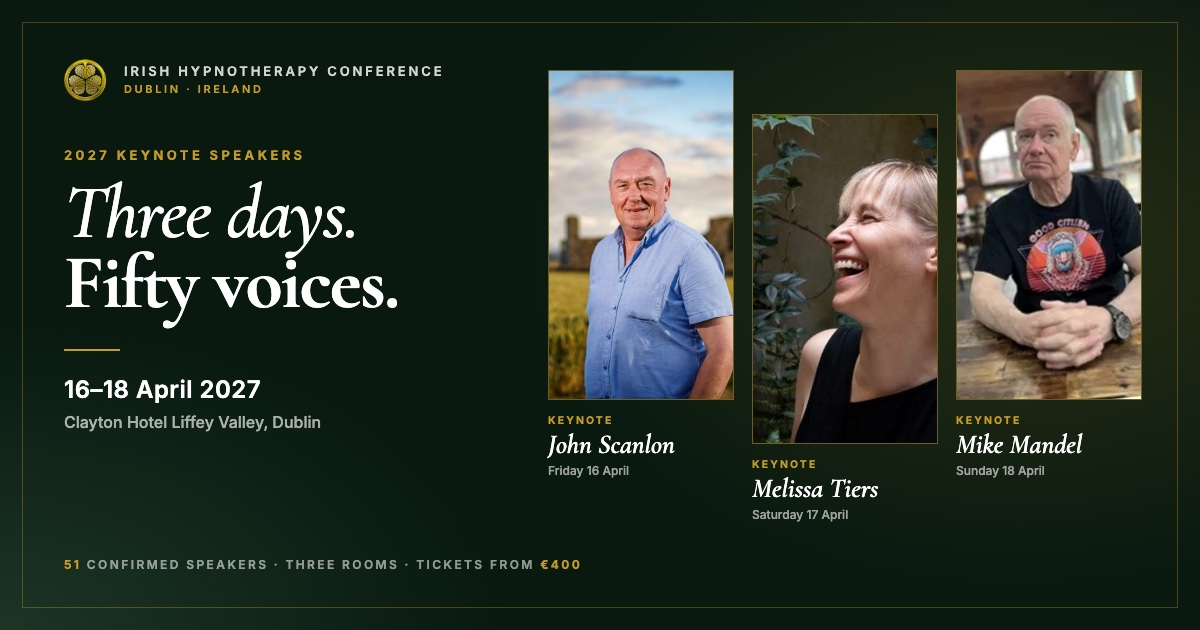
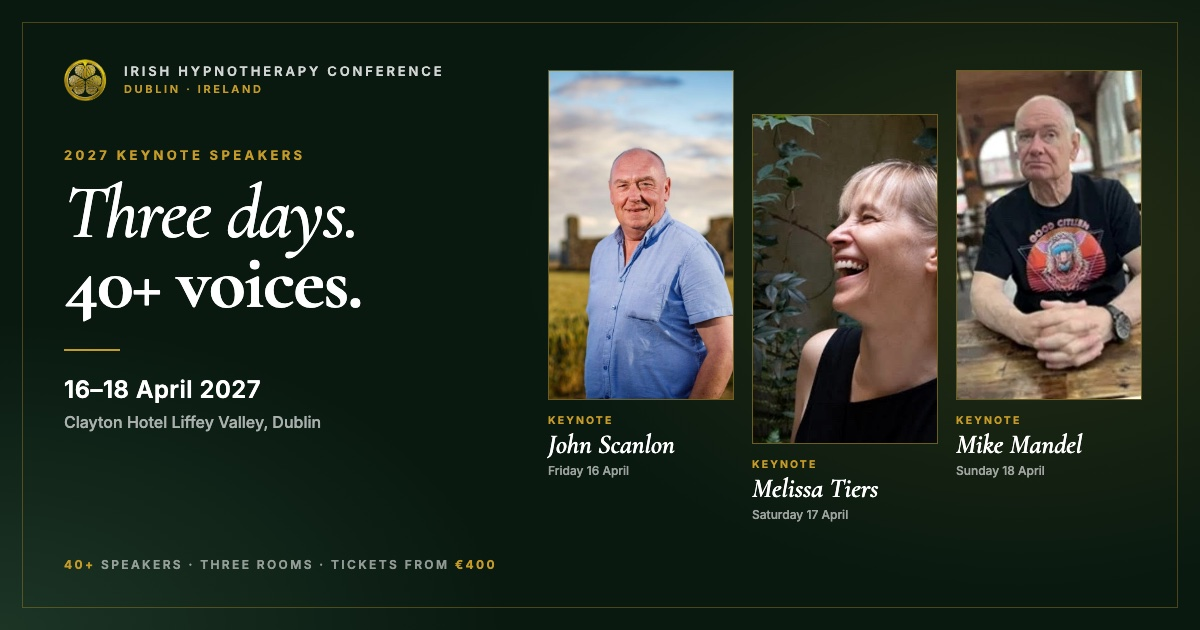
fix: confirmed facts, 40+ speakers, venue address, current copyright year
- Speaker count reads 40+ everywhere, including the share image and calendar file
- Venue address corrected to Fonthill Road, Liffey Valley, Dublin, D22 X4W6
  (Venue section, event structured data, calendar file)
- Testimonial corrected from six years to four
- Footer copyright year is set from the build date

Changed region(s): [[0.0617, 0.3921, 0.3392, 0.5127], [0.0617, 0.8746, 0.4933, 0.9048]]

diff --git a/components/home/Testimonials.jsx b/components/home/Testimonials.jsx
@@ -5,7 +5,7 @@ import { prefersReducedMotion } from '../../lib/gsap';
 
 const QUOTES = [
   { text: '"The IHC is without question the most valuable event in the Irish hypnotherapy calendar. The quality of speakers is simply unmatched."', name: 'Siobhán Murphy', role: 'Clinical Hypnotherapist, Cork' },
-  { text: '"I have attended every year for six years. The connections I have made have genuinely transformed my practice and my career."', name: "Declan O'Brien", role: 'Hypnotherapy Trainer, Dublin' },
+  { text: '"I have attended every year for four years. The connections I have made have genuinely transformed my practice and my career."', name: "Declan O'Brien", role: 'Hypnotherapy Trainer, Dublin' },
   { text: '"Melissa Tiers alone was worth the trip from London. The level of expertise on stage across three days is genuinely world-class."', name: 'Aoife Brennan', role: 'Hypnotherapist and Coach, Galway' },
   { text: '"The workshops are outstanding: practical, immediately applicable and presented by genuine masters of their craft."', name: 'Ciarán Walsh', role: 'Practice Owner, Limerick' },
   { text: '"The Gala Dinner is an experience in itself, an evening of celebration, inspiration and community I look forward to every year."', name: 'Fionnuala Kelly', role: 'Hypnotherapy Supervisor, Belfast' },

diff --git a/app/speakers/page.jsx b/app/speakers/page.jsx
@@ -2,8 +2,9 @@ import SpeakerDirectory from '../../components/speakers/SpeakerDirectory';
 import { SPEAKERS } from '../../lib/speakers';
 import './speakers.css';
 import { OG_IMAGE } from '../../lib/site';
+import { SPEAKER_COUNT } from '../../lib/event';
 
-const DESC = `Meet the ${SPEAKERS.length} confirmed speakers at the Irish Hypnotherapy Conference 2027, 16 to 18 April at Clayton Hotel Liffey Valley, Dublin. Keynotes from John Scanlon, Melissa Tiers and Mike Mandel.`;
+const DESC = `Meet the ${SPEAKER_COUNT} confirmed speakers at the Irish Hypnotherapy Conference 2027, 16 to 18 April at Clayton Hotel Liffey Valley, Dublin. Keynotes from John Scanlon, Melissa Tiers and Mike Mandel.`;
 
 export const metadata = {
   title: '2027 Speakers',
@@ -24,7 +25,7 @@ export default function SpeakersPage() {
       <main id="main">
         <div className="spk-wrap">
           <p className="spk-intro">
-            {SPEAKERS.length} speakers across three days and three rooms, from internationally known trainers
+            {SPEAKER_COUNT} speakers across three days and three rooms, from internationally known trainers
             to practitioners presenting for the first time. Session times are being confirmed and will be
             added as the programme is finalised.
           </p>

diff --git a/components/home/Venue.jsx b/components/home/Venue.jsx
@@ -10,7 +10,7 @@ export default function Venue() {
       <h2 className="venue-hl reveal" id="venue-hl">Clayton Hotel<br/><strong>Liffey Valley, Dublin</strong></h2>
       <div className="venue-addr reveal">
         <svg width="18" height="18" viewBox="0 0 24 24" fill="none" stroke="currentColor" strokeWidth="1.8" aria-hidden="true"><path d="M21 10c0 7-9 13-9 13s-9-6-9-13a9 9 0 0 1 18 0z"/><circle cx="12" cy="10" r="3"/></svg>
-        <span>Liffey Valley Retail Park, Quarryvale,<br/>Dublin 22, D22 HF52, Ireland</span>
+        <span>Fonthill Road, Liffey Valley,<br/>Dublin, D22 X4W6, Ireland</span>
       </div>
       <p className="venue-body reveal">A 4-star conference hotel set just off the M50 motorway, adjacent to Liffey Valley Shopping Centre. State-of-the-art meeting and event facilities accommodating up to 300 delegates, with Globe Restaurant &amp; Bar, Red Bean Roastery café, and a full leisure centre on site. Easy access by road and rail from Dublin city centre.</p>
       <div className="venue-feats reveal">

diff --git a/app/page.jsx b/app/page.jsx
@@ -40,11 +40,17 @@ const EVENT_LD = {
   location: {
     '@type': 'Place',
     name: 'Clayton Hotel Liffey Valley',
-    address: { '@type': 'PostalAddress', addressLocality: 'Dublin', addressCountry: 'IE' },
+    address: {
+      '@type': 'PostalAddress',
+      streetAddress: 'Fonthill Road, Liffey Valley',
+      addressLocality: 'Dublin',
+      postalCode: 'D22 X4W6',
+      addressCountry: 'IE',
+    },
   },
   image: [`${BASE}/og-2027.jpg`],
   description:
-    "Ireland's premier hypnotherapy conference, three days of world-class training, 50+ international speakers, workshops, CPD hours and the annual gala awards dinner in Dublin.",
+    "Ireland's premier hypnotherapy conference, three days of world-class training, 40+ international speakers, workshops, CPD hours and the annual gala awards dinner in Dublin.",
   offers: TICKETS.map(t => ({
     '@type': 'Offer', name: t.name, price: String(t.price), priceCurrency: 'EUR', url: t.url,
     availability: 'https://schema.org/InStock', validFrom: '2026-01-01',

diff --git a/components/home/About.jsx b/components/home/About.jsx
@@ -21,7 +21,7 @@ export default function About() {
         World-class training, honest peer conversation, and access to the researchers pushing this field forward, that is harder to find than it should be. IHC 2027 is where Irish practitioners come to close that gap. Three days, 40+ international speakers, and a community that understands exactly what you do.
       </p>
       <p className="about-body reveal">
-        The 2027 theme is <strong>Empowering Connections, Advancing Expertise, Embracing Clarity</strong>: our most ambitious programme to date, with more than 50 speakers across three rooms.
+        The 2027 theme is <strong>Empowering Connections, Advancing Expertise, Embracing Clarity</strong>: our most ambitious programme to date, with more than 40 speakers across three rooms.
       </p>
       <div className="about-pillars">
         <div className="pillar-row reveal">

diff --git a/components/shared/Footer.jsx b/components/shared/Footer.jsx
@@ -1,6 +1,9 @@
 import Link from 'next/link';
 import { BASE } from '../../lib/site';
 
+/** Current year, set each time the site is built. */
+const COPYRIGHT_YEAR = new Date().getFullYear();
+
 export default function Footer() {
   return (
     <footer>
@@ -54,7 +57,7 @@ export default function Footer() {
           </div>
         </div>
         <div className="footer-bottom">
-          <p className="footer-copy">© 2027 Irish Hypnotherapy Conference. All rights reserved.</p>
+          <p className="footer-copy">© {COPYRIGHT_YEAR} Irish Hypnotherapy Conference. All rights reserved.</p>
           <ul className="footer-policies">
             <li><Link href="/privacy-policy">Privacy Policy</Link></li>
             <li><Link href="/refund-policy">Refund Policy</Link></li>

diff --git a/components/home/Speakers.jsx b/components/home/Speakers.jsx
@@ -1,5 +1,6 @@
 import Link from 'next/link';
 import { BASE } from '../../lib/site';
+import { SPEAKER_COUNT } from '../../lib/event';
 import { SPEAKERS, KEYNOTES, DAY_LABELS, getSpeaker, initials } from '../../lib/speakers';
 
 /** Names shown in the homepage roster strip, in display order. */
@@ -51,7 +52,7 @@ export default function Speakers() {
           <div>
             <div className="eyebrow reveal" style={{ '--eyebrow-c': 'var(--gold-text)' }}>2027 Speakers</div>
             <h2 className="speakers-hl reveal" id="speakers-hl">
-              <em>{SPEAKERS.length} confirmed speakers</em>
+              <em>{SPEAKER_COUNT} confirmed speakers</em>
               Voices shaping<br />the future
             </h2>
           </div>

diff --git a/app/layout.jsx b/app/layout.jsx
@@ -16,7 +16,7 @@ export const metadata = {
     template: '%s | Irish Hypnotherapy Conference 2027',
   },
   description:
-    "Ireland's premier hypnotherapy conference, three days of world-class training, 50+ international speakers, workshops, CPD hours and the annual gala awards dinner in Dublin.",
+    "Ireland's premier hypnotherapy conference, three days of world-class training, 40+ international speakers, workshops, CPD hours and the annual gala awards dinner in Dublin.",
   icons: {
     icon: [{ url: `${BASE}/favicon-48.png`, sizes: '48x48', type: 'image/png' }],
     apple: [{ url: `${BASE}/apple-touch-icon.png` }],

diff --git a/lib/event.js b/lib/event.js
@@ -2,7 +2,7 @@
  * Single source of truth for event facts shown across the site.
  * Change a figure here and every mention updates.
  */
-export const SPEAKER_COUNT = '50+';
+export const SPEAKER_COUNT = '40+';
 export const ATTENDEE_COUNT = '200+';
 export const YEARS_RUNNING = 4;
 
